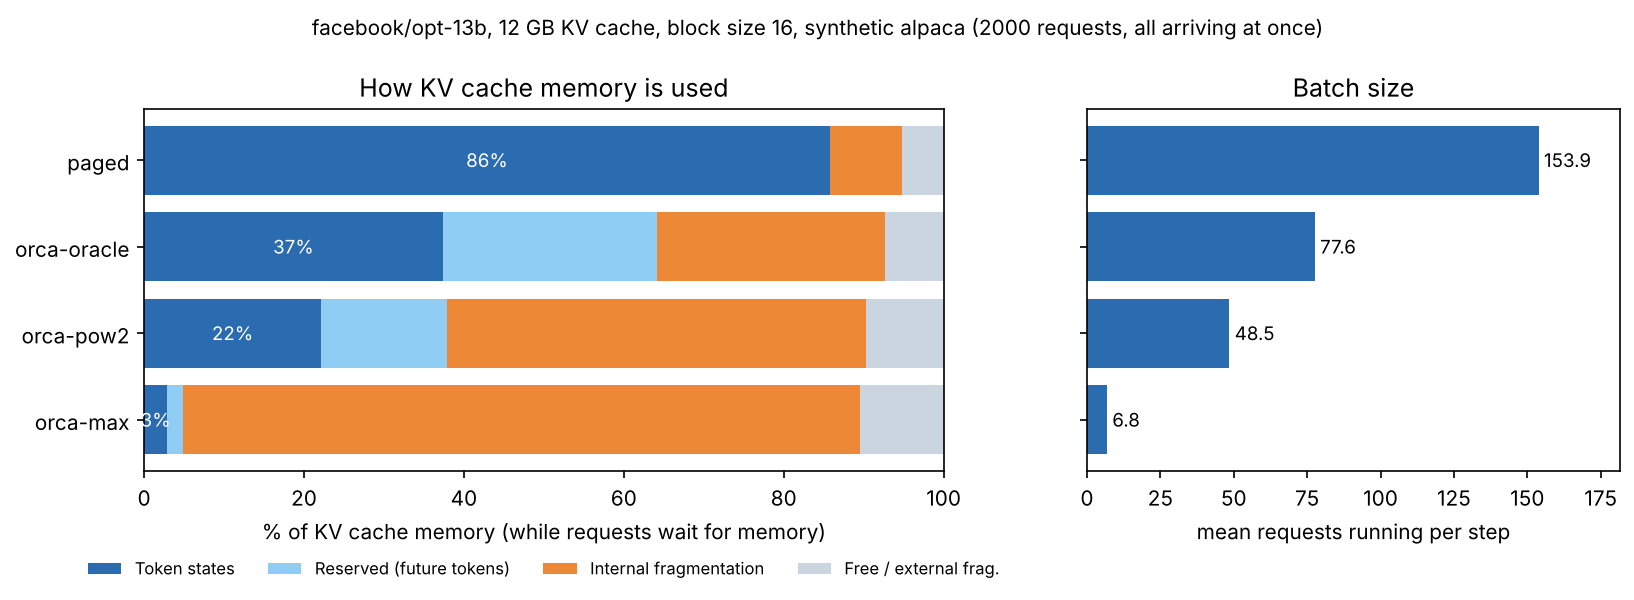
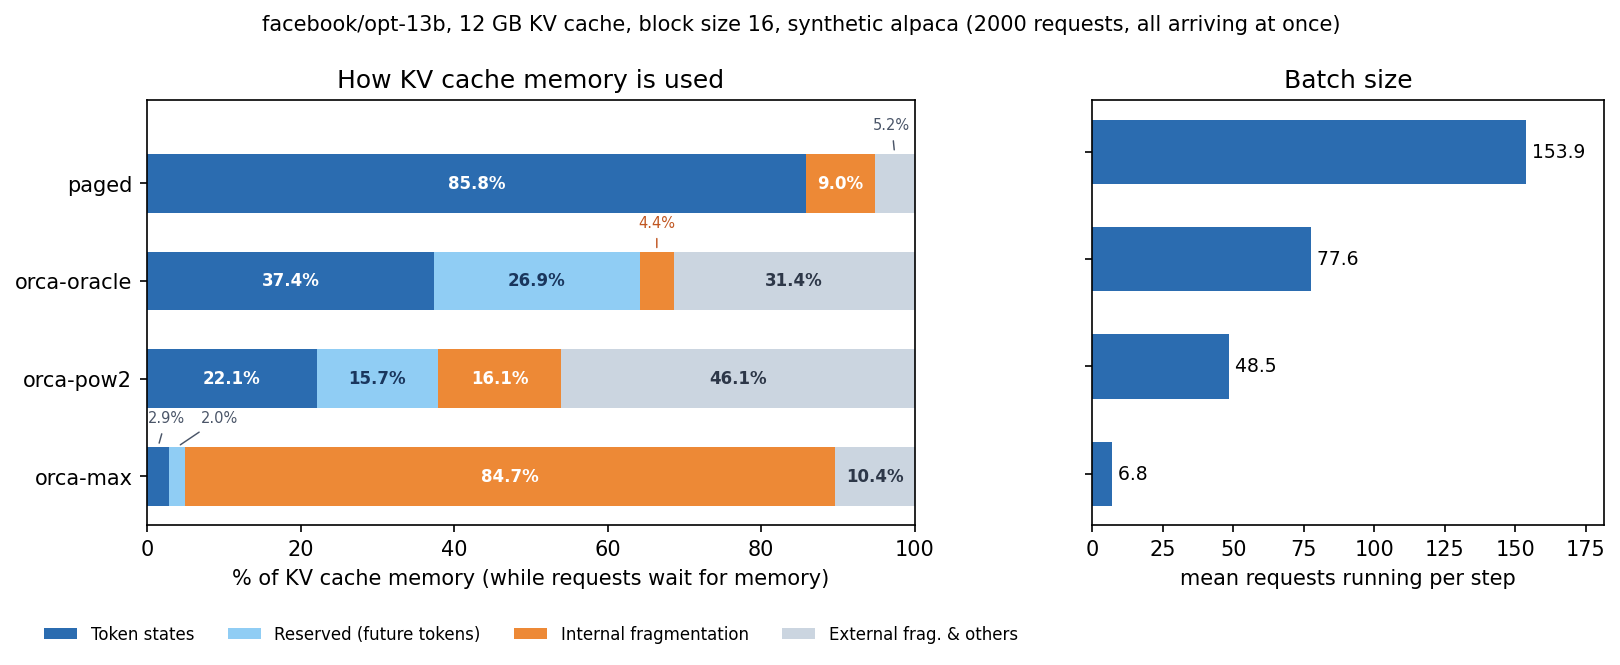
E0: use the paper's waste categories; label every segment in the plots
Count buddy-allocator rounding under "external fragmentation & others"
(paper Fig. 2) instead of internal fragmentation. Internal now means only
slots the policy reserved that the request never uses, so Orca Oracle's
internal fragmentation is ~0 as in the paper. Real-token shares and batch
sizes are unchanged.

- reservation_manager: track pre-rounding policy slots; report
  internal_frag_slots and buddy_rounding_slots separately
- simulate_memory: new category mapping; percentage labels on every
  segment (thin ones above the bar with a leader line)
- regenerate results/e0_{sharegpt,alpaca}.{csv,png}
- EXPERIMENTS.md: E0 category definitions and new breakdown

diff --git a/benchmarks/simulate_memory.py b/benchmarks/simulate_memory.py
@@ -7,8 +7,8 @@ running sequence "generates" one token until it reaches its true output length.
 For every step it records how the KV cache memory is used:
     token states            slots holding real K/V
     reserved                slots reserved for tokens that will be generated later (Orca)
-    internal fragmentation  allocated slots that will never be used
-    free                    unallocated slots (when requests wait anyway, this is external fragmentation)
+    internal fragmentation  slots the policy reserved that will never be used (paper §3 definition)
+    external & others       buddy rounding + unallocated slots (paper Fig. 2 "external fragmentation & others")
 and how many requests run concurrently (batch size). With all requests arriving at once
 (offline mode, the default) memory is the bottleneck, so this directly shows why paging
 fits more requests.
@@ -100,11 +100,13 @@ def simulate(system: str, reqs: list[Request], block_size: int, num_gpu_blocks: 
         if sched.waiting:  # memory-bound moment: someone is waiting for space
             used = stats["used_slots"]
             future = stats.get("reserved_future_slots", 0)
-            internal = stats["allocated_slots"] - used - future
+            # Paper Fig. 2 categories: buddy rounding goes to "external & others", not internal.
+            rounding = stats.get("buddy_rounding_slots", 0)
+            internal = stats.get("internal_frag_slots", stats["allocated_slots"] - used - future)
             sums["token_states"] += used / total_slots
             sums["reserved"] += future / total_slots
             sums["internal_frag"] += internal / total_slots
-            sums["free"] += stats["free_blocks"] * block_size / total_slots
+            sums["free"] += (stats["free_blocks"] * block_size + rounding) / total_slots
             n_bound += 1
         res.batch_sizes.append(len(sched.running))
         if check:
@@ -126,23 +128,41 @@ def plot(results: list[SimResult], path: Path, title: str) -> None:
 
     names = [r.system for r in results]
     parts = [("token_states", "Token states", "#2b6cb0"), ("reserved", "Reserved (future tokens)", "#90cdf4"),
-             ("internal_frag", "Internal fragmentation", "#ed8936"), ("free", "Free / external frag.", "#cbd5e0")]
-    fig, (ax1, ax2) = plt.subplots(1, 2, figsize=(11, 4.2), gridspec_kw={"width_ratios": [3, 2]})
+             ("internal_frag", "Internal fragmentation", "#ed8936"), ("free", "External frag. & others", "#cbd5e0")]
+    fig, (ax1, ax2) = plt.subplots(1, 2, figsize=(11, 4.6), gridspec_kw={"width_ratios": [3, 2]})
+    text_color = {"token_states": "white", "reserved": "#1a365d", "internal_frag": "white", "free": "#2d3748"}
     left = [0.0] * len(results)
+    small = [[] for _ in results]  # thin segments per row: (centre x, value, key), labelled above the bar
     for key, label, color in parts:
         vals = [100 * r.frac[key] for r in results]
-        ax1.barh(names, vals, left=left, color=color, label=label)
+        ax1.barh(names, vals, left=left, color=color, label=label, height=0.6)
         for i, (v, l) in enumerate(zip(vals, left)):
-            if key == "token_states":
-                ax1.text(l + v / 2, i, f"{v:.0f}%", va="center", ha="center", color="white", fontsize=9)
+            if v < 0.05:
+                continue  # empty segment (e.g. paged has no reservation)
+            if v >= 6:  # wide enough: label inside the segment
+                ax1.text(l + v / 2, i, f"{v:.1f}%", va="center", ha="center",
+                         color=text_color[key], fontsize=8, fontweight="bold")
+            else:
+                small[i].append((l + v / 2, v, key))
         left = [l + v for l, v in zip(left, vals)]
+    for i, segs in enumerate(small):
+        # Spread labels so neighbours are >= 7 units apart, keeping them inside the axis; draw a leader to each segment.
+        xs = [min(x, 97.0) for x, _, _ in segs]
+        for j in range(len(xs) - 2, -1, -1):
+            xs[j] = min(xs[j], xs[j + 1] - 7)
+        for j in range(len(xs)):  # then push right again if that ran off the left edge
+            xs[j] = max(xs[j], 2.5 if j == 0 else xs[j - 1] + 7)
+        for (x, v, key), tx in zip(segs, xs):
+            c = "#c05621" if key == "internal_frag" else "#4a5568"
+            ax1.annotate(f"{v:.1f}%", xy=(x, i - 0.3), xytext=(tx, i - 0.52), ha="center", va="bottom",
+                         fontsize=7, color=c, arrowprops=dict(arrowstyle="-", color=c, lw=0.7))
     ax1.set_xlim(0, 100)
-    ax1.invert_yaxis()
+    ax1.set_ylim(len(results) - 0.5, -0.85)  # inverted, with headroom for labels above the top bar
     ax1.set_xlabel("% of KV cache memory (while requests wait for memory)")
     ax1.legend(loc="upper center", bbox_to_anchor=(0.5, -0.2), ncol=4, frameon=False, fontsize=8)
     ax1.set_title("How KV cache memory is used")
 
-    ax2.barh(names, [r.mean_batch for r in results], color="#2b6cb0")
+    ax2.barh(names, [r.mean_batch for r in results], color="#2b6cb0", height=0.6)
     for i, r in enumerate(results):
         ax2.text(r.mean_batch, i, f" {r.mean_batch:.1f}", va="center", fontsize=9)
     ax2.set_xlim(0, max(r.mean_batch for r in results) * 1.18)

diff --git a/minivllm/reservation_manager.py b/minivllm/reservation_manager.py
@@ -13,8 +13,11 @@ contiguous, power-of-two-sized, aligned range of blocks. This produces all three
 of waste from §3.1:
 
     reserved slots          - space for tokens not generated yet
-    internal fragmentation  - space the sequence will never use (over-reservation, buddy rounding)
-    external fragmentation  - free blocks that can't be used because no free range is big enough
+    internal fragmentation  - space the policy reserved that the sequence will never use
+                              (over-reservation; ~0 for Oracle, which knows the true length)
+    external fragmentation  - buddy rounding to a power-of-two range, plus free blocks that
+                              can't be used because no free range is big enough
+                              (the paper's Fig. 2 "external fragmentation & others")
 
 The class has the same interface as BlockSpaceManager, so the Scheduler, Engine and
 simulator run unchanged; only the memory policy differs. There is no sharing: forked
@@ -114,6 +117,7 @@ class ReservationBlockManager:
         # seq_id -> (start block, n_blocks, final_len): final_len = tokens the sequence will really reach
         self.reservations: dict[int, tuple[int, int, int]] = {}
         self.prefixes: dict = {}
+        self.policy_slots: dict[int, int] = {}  # seq_id -> slots the policy reserved (pre-rounding)
         self.num_external_frag_events = 0  # admissions refused although enough blocks were free
 
     # ------------------------------------------------------------ reservation
@@ -170,6 +174,8 @@ class ReservationBlockManager:
                 b.ref_count = 1
             self.block_tables[seq.seq_id] = table
             self.reservations[seq.seq_id] = (start, 1 << order, final_len)
+            # Slots the *policy* asked for, before the buddy allocator rounds up to 2^order blocks.
+            self.policy_slots[seq.seq_id] = math.ceil(reserved / self.block_size) * self.block_size
             seq.num_computed_tokens = 0
 
     # ---------------------------------------------------------------- decoding
@@ -190,6 +196,7 @@ class ReservationBlockManager:
         if table is None:
             return
         start, _, _ = self.reservations.pop(seq.seq_id)
+        self.policy_slots.pop(seq.seq_id, None)
         for b in table:
             b.ref_count = 0
         self.buddy.free(start)
@@ -221,19 +228,24 @@ class ReservationBlockManager:
         return self.num_total_cpu_blocks
 
     def memory_stats(self, seqs: Iterable[Sequence]) -> dict[str, int]:
-        used = future = allocated = 0
+        used = future = allocated = internal = rounding = 0
         for seq in seqs:
             if seq.seq_id not in self.reservations:
                 continue
             _, n_blocks, final_len = self.reservations[seq.seq_id]
+            policy = self.policy_slots[seq.seq_id]
             allocated += n_blocks * self.block_size
             used += seq.get_len()
-            future += max(0, final_len - seq.get_len())  # will be filled later; the rest is internal fragmentation
+            future += max(0, final_len - seq.get_len())   # will be filled later
+            internal += policy - final_len                 # paper §3: reserved but never used (over-reservation)
+            rounding += n_blocks * self.block_size - policy  # buddy rounding to 2^order: paper counts it as "external & others"
         used_blocks = self.num_total_gpu_blocks - self.buddy.num_free_blocks()
         return {
             "allocated_slots": used_blocks * self.block_size,
             "used_slots": used,
             "reserved_future_slots": future,
+            "internal_frag_slots": internal,
+            "buddy_rounding_slots": rounding,
             "used_blocks": used_blocks,
             "free_blocks": self.buddy.num_free_blocks(),
         }

diff --git a/docs/EXPERIMENTS.md b/docs/EXPERIMENTS.md
@@ -34,6 +34,8 @@ Outputs are forced to the trace's output length (`ignore_eos=True`) so that ever
 - **What:** replay the trace through each block manager (no model); every step record used slots / reserved slots, and the number of running requests.
 - **Paper:** existing systems use only 20.4–38.2% of KV memory for real tokens; vLLM ≈96% *(verify on figure)*.
 - **Expect:** paged ≫ Oracle > Pow2 > Max on utilisation and on batch size.
+- **Waste categories (paper §3 / Fig. 2):** *reserved* = slots for tokens not generated yet; *internal fragmentation* = slots the policy reserved that the request never uses (≈0 for Oracle, which knows the true length); *external fragmentation & others* = buddy rounding up to a power-of-two range + free blocks no request can use. Changed 22 Nov: buddy rounding was previously counted as internal; real-token shares are unchanged.
+- **Result (22 Nov, ShareGPT):** tokens / reserved / internal / external & others = paged 97.0 / 0 / 1.4 / 1.6 %, Oracle 38.2 / 25.5 / 0.6 / 35.6 %, Pow2 29.6 / 19.7 / 15.1 / 35.6 %, Max 19.9 / 13.3 / 57.7 / 9.2 %. Alpaca (2000 requests): Oracle 37.4 / 26.9 / 4.4 / 31.4 %.
 - **Why first:** runs on a laptop on Day 7, gives the talk's motivating chart before any GPU run.
 
 ## E1 — Basic sampling, latency vs request rate (Fig. 12) — **headline result**
